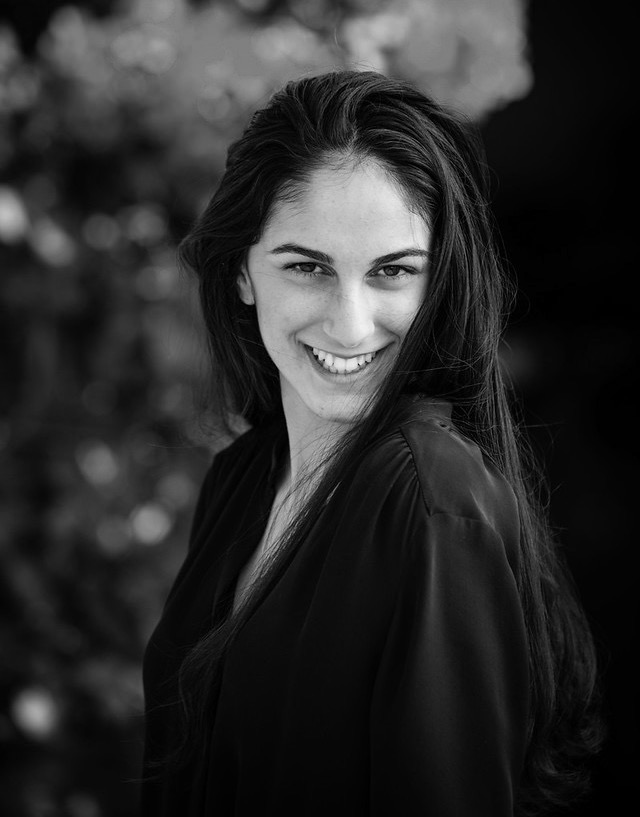
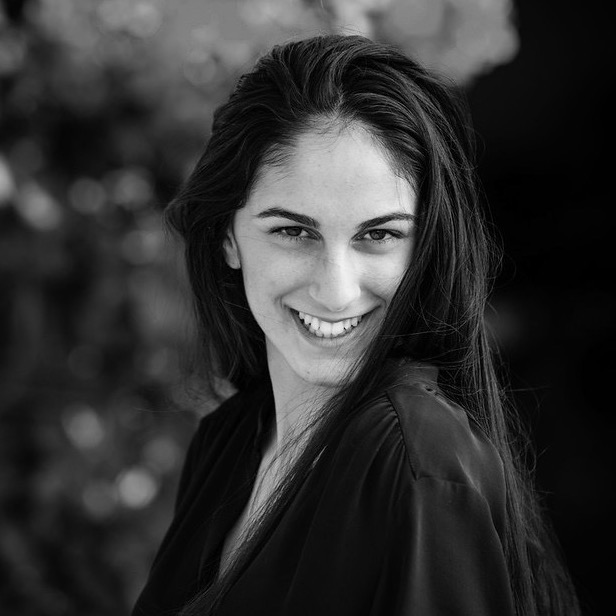
crop about img

diff --git a/templates/includes/projects_content.html b/templates/includes/projects_content.html
@@ -37,7 +37,7 @@
 
     <div class="project">
         <h1>The FootFinder</h1>
-        <h3>A device to aid individuals undergoing post-stroke gait therapy. Challenged by Shirley Ryan Ability physical therapist.</h3>
+        <h3>A device to aid individuals undergoing post-stroke gait therapy. Challenged by a physical therapist at the Shirley Ryan Ability Lab.</h3>
         <p class = "maintext">#engineering #prototyping #groupProject #DTC #spring19</p>
     </div>
 

diff --git a/static/style.css b/static/style.css
@@ -154,8 +154,12 @@ main > * {
 
 .about img {
     width: 15%;
+    /* height: 15%; */
+    width:15vw;
+    height:15vw;
     object-fit: cover;
     border: 1px solid black;
+    border-radius:50%;
 }
 
 h1 {
